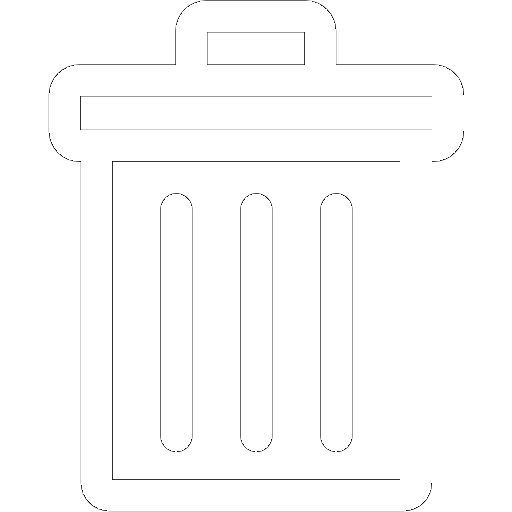
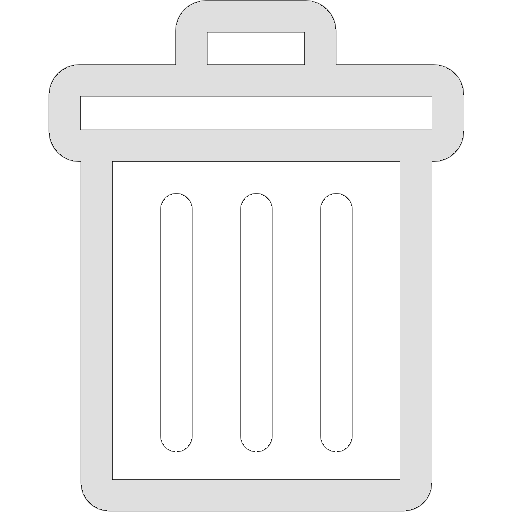
CHANGE DESIGN

Changed region(s): [[0.0938, 0.0, 0.9062, 1.0]]

diff --git a/src/index.css b/src/index.css
@@ -1,9 +1,14 @@
 :root {
-  --text-color: #ebebeb;
-  --bg-color: rgb(31, 31, 31);
-  --input-bg-color: #bdbdbd;
+  --bg-primary: #f8e7c3;
 
-  --wrapper-bg-color: #421891;
+  --primary: #5db092;
+  --primary-dark: #509c81;
+  --secondary: #ffc947;
+  --accent: #ff6b7a;
+
+  --text-primary-dark: #2d3748;
+  --text-primary-light: #dfdfdf;
+  --text-secondary: #718096;
 }
 
 * {
@@ -16,7 +21,7 @@ html,
 body,
 #root {
   height: 100dvh;
-  background-color: var(--bg-color);
-  color: var(--text-color);
+  background-color: var(--bg-primary);
+  color: var(--text-primary-dark);
   font-family: Arial, Helvetica, sans-serif;
 }

diff --git a/src/components/info-form/InfoForm.module.css b/src/components/info-form/InfoForm.module.css
@@ -10,12 +10,17 @@
 
 .userInput {
   width: 100%;
-  background-color: var(--bg-color);
+  background-color: var(--primary-dark);
   border: none;
-  color: var(--text-color);
+  color: var(--text-primary-light);
   border-radius: 10px;
   padding: 10px;
   margin-right: 10px;
+  outline: none;
+}
+
+.userInput::placeholder {
+  color: var(--text-primary-light);
 }
 
 .trashbinPic {

diff --git a/src/components/button/Button.module.css b/src/components/button/Button.module.css
@@ -1,13 +1,12 @@
 .button {
   padding: 15px;
-
   border: none;
   border-radius: 10px;
   font-size: 1.1em;
 }
 
 .enabled {
-  background-color: blueviolet;
+  background-color: var(--accent);
   color: aliceblue;
 }
 
@@ -24,4 +23,8 @@
 .disabled {
   background-color: rgb(107, 107, 107);
   color: rgb(158, 158, 158);
+}
+
+.disabled:hover {
+  cursor: not-allowed;
 }

diff --git a/src/components/footer/Footer.tsx b/src/components/footer/Footer.tsx
@@ -1,5 +1,9 @@
 import styles from "./Footer.module.css";
 
 export const Footer = () => {
-  return <footer className={styles.footer}>Footer</footer>;
+  return (
+    <footer className={styles.footer}>
+      <span>QR Code Generator 2026</span>
+    </footer>
+  );
 };

diff --git a/src/components/logo/Logo.module.css b/src/components/logo/Logo.module.css
@@ -1,0 +1,5 @@
+.logo {
+  margin-left: 30px;
+  font-weight: bold;
+  font-size: 1.2em;
+}

diff --git a/src/components/logo/Logo.tsx b/src/components/logo/Logo.tsx
@@ -1,7 +1,9 @@
+import styles from "./Logo.module.css";
+
 interface LogoProps {
   title: string;
 }
 
 export const Logo = ({ title }: LogoProps) => {
-  return <span>{title}</span>;
+  return <span className={styles.logo}>{title}</span>;
 };

diff --git a/src/components/footer/Footer.module.css b/src/components/footer/Footer.module.css
@@ -1,3 +1,6 @@
 footer {
+  display: flex;
   height: 50px;
+  align-items: center;
+  justify-content: center;
 }

diff --git a/src/components/main/Main.module.css b/src/components/main/Main.module.css
@@ -6,6 +6,7 @@
 }
 
 .wrapper {
+  margin: 50px;
   width: 680px;
   height: 510px;
   display: flex;
@@ -14,5 +15,5 @@
   align-items: center;
   gap: 15px;
   border-radius: 10px;
-  background-color: var(--wrapper-bg-color);
+  background-color: var(--primary);
 }

diff --git a/src/components/header/Header.tsx b/src/components/header/Header.tsx
@@ -5,7 +5,7 @@ import styles from "./Header.module.css";
 export const Header = () => {
   return (
     <header className={styles.header}>
-      <Logo title="QR Code Generator" />;
+      <Logo title="QR Code Generator" />
     </header>
   );
 };

diff --git a/src/components/info-form/InfoForm.tsx b/src/components/info-form/InfoForm.tsx
@@ -16,7 +16,7 @@ export const InfoForm = () => {
           className={styles.userInput}
           onChange={handleUserInput}
         />
-        <img src={trashbin} className={styles.trashbinPic} onClick={clearUserInput} />
+        {userInput !== "" ? <img src={trashbin} className={styles.trashbinPic} onClick={clearUserInput} /> : null}
       </div>
     </form>
   );